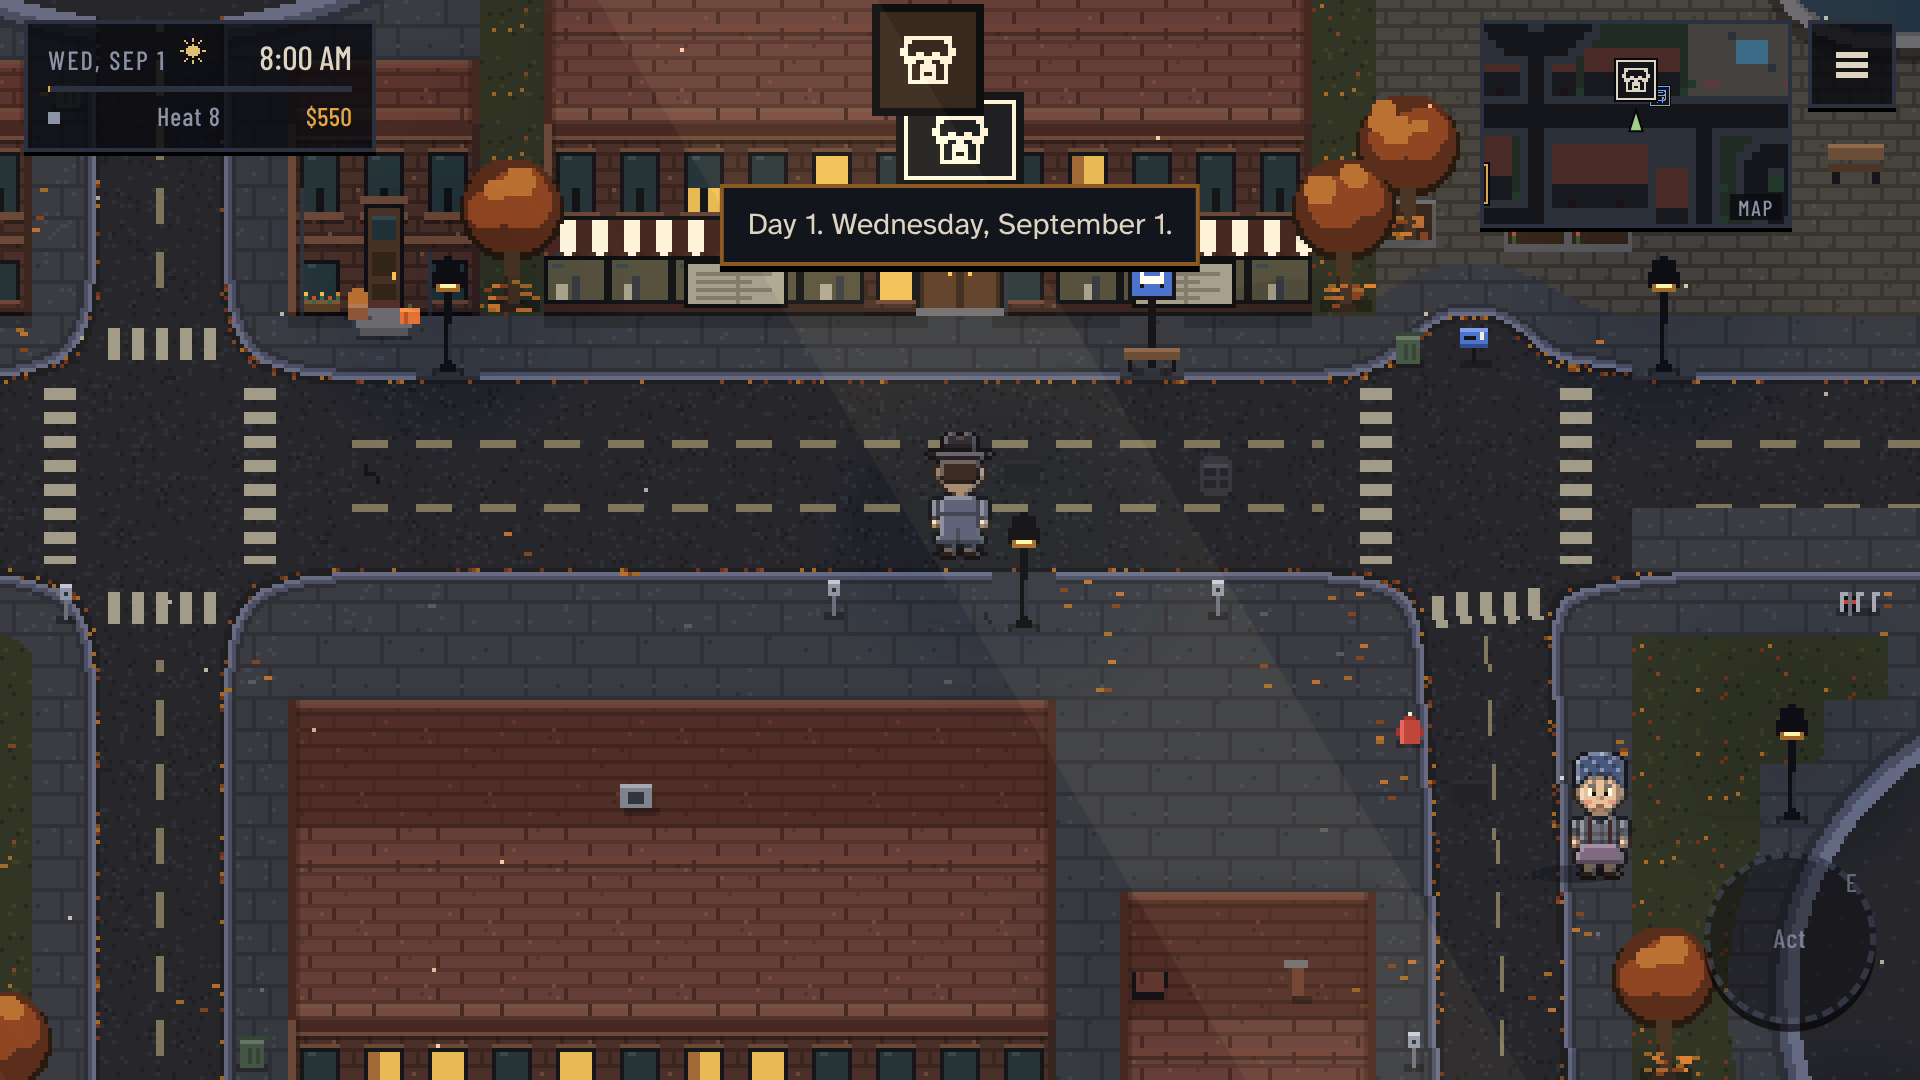
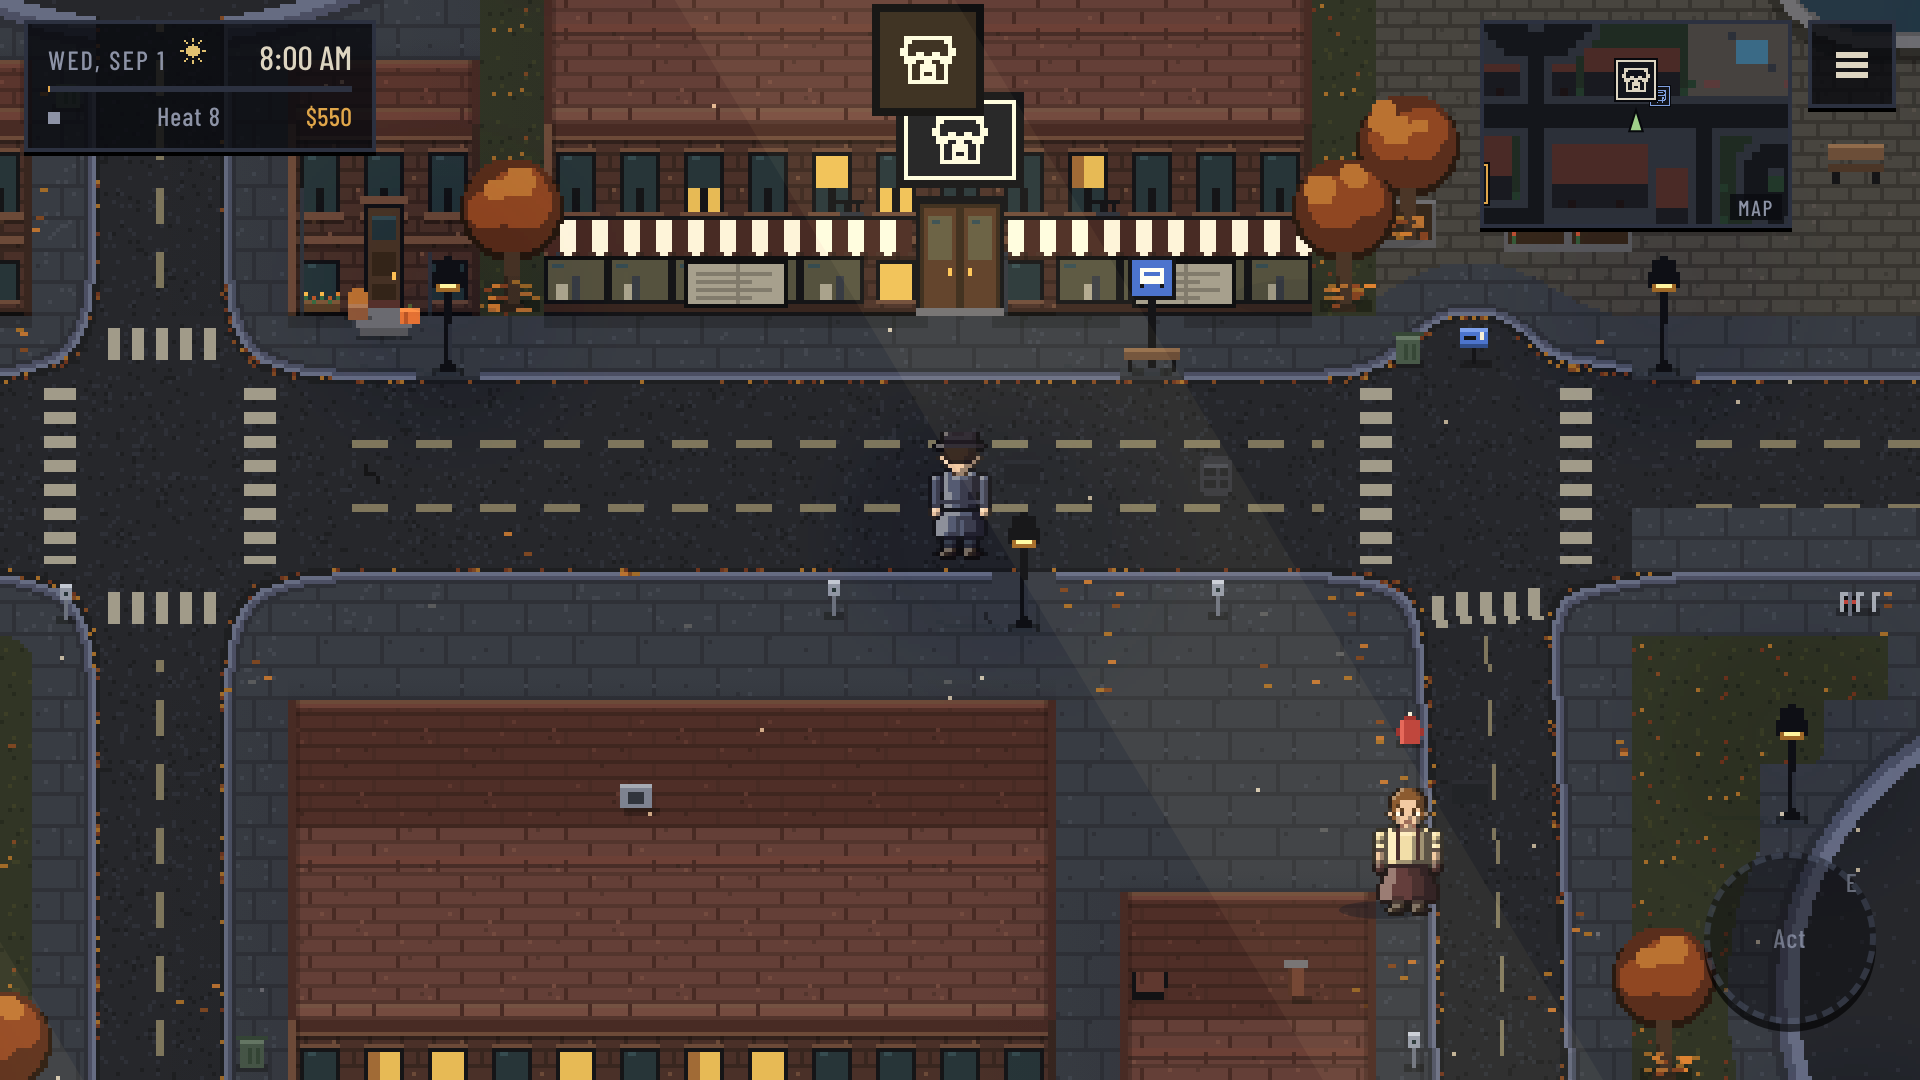
Phase 34d: the noir art for everyone (3.1.0), new store screenshots
The noir figures and portrait clothes are on for all players; the ?art=noir switch is
removed. Version 3.1.0 with a What's new entry. Store screenshots and the feature
graphic retaken with the new characters.

Claude-Session: https://claude.ai/code/session_015gp6HFWkuduhuaYTGNTQiG

diff --git a/src/data/changelog.js b/src/data/changelog.js
@@ -2,6 +2,11 @@
 // Written for players: what they'll notice, not how it was built.
 
 export const CHANGELOG = [
+  { version: '3.1.0', title: 'New faces in town', items: [
+    'Everyone has been redrawn in a new noir style: grown-up proportions, lamp-lit shading with cool shadows, and faces with real features at walking size. Every hairstyle, hat, outfit and accessory in the creator has a new look, and your character and everyone in town keep theirs.',
+    'Portraits keep their faces; their clothes now match the new outfits.',
+    'Since 3.0: smooth, curving roads with a roundabout, lamplit windows and moving shadows, walk in and out of your shop and apartment freely, open the shop from its sign (and late, after dark, twice a week), and night spots are entered from their own doors.',
+  ] },
   { version: '3.0.0', title: 'Day and night, flowing', items: [
     'The day is one long, continuous day now, about fifteen to twenty minutes from waking to bed, with the night after it. No more menus to pick the day and the night.',
     'Open the shop when you like, for up to eight hours, set from the sign at the front. Pick a closed day each week. While it is open you stay in the shop; the rest of the time the city, your friends and the water are yours.',

diff --git a/src/engine/figure-hd.js b/src/engine/figure-hd.js
@@ -19,10 +19,9 @@ import { makeCanvas } from './sprites.js';
 import { cleanLook, MOODS, shade, SKINS, HAIR_COLORS, CLOTH, EYE_COLORS, PARTS } from './figure.js';
 import { paintNoir, noirRamp } from './figure-noir.js';
 
-// Phase 34: the noir figures are built behind a switch until the owner approves them. Add ?art=noir to the
-// address to see them; everyone else keeps the current art. (Portraits are unchanged either way.)
-let ART = 'classic';
-try { if (/[?&]art=noir\b/.test(globalThis.location?.search ?? '')) ART = 'noir'; } catch { /* no location: tests */ }
+// Phase 34: the walking figures are drawn by figure-noir.js, and portrait clothes take its colours. The classic
+// painter below is kept for tests and comparison (setArtStyle('classic')); players always see the noir art.
+let ART = 'noir';
 export const artStyle = () => ART;
 export function setArtStyle(s) { ART = s === 'noir' ? 'noir' : 'classic'; }
 

diff --git a/src/config.js b/src/config.js
@@ -3,7 +3,7 @@
 export const CONFIG = {
   title: 'The Midnight Appraiser',
   saveVersion: 1,
-  version: '3.0.0',
+  version: '3.1.0',
   saveSlots: 3,
 
   tile: 16,

diff --git a/ROADMAP.md b/ROADMAP.md
@@ -504,7 +504,7 @@ realm (it can be built at any time, independent of the rest). Each slice can be 
 - Whether the Town Hall NPCs' schedules follow the long day and whether the council meets on a fixed weekday; how hard the
   Hearing should be to fail; the final names and looks of the Brethren and the Horned Judge.
 
-### Phase 34: Noir character art (style approved from a mockup; not built yet)
+### Phase 34: Noir character art (built, version 3.1.0)
 
 The owner wants the characters redrawn in the look of the craftpix "gangster" pixel pack (no guns), bought as a
 free asset. The pack is a side-view platformer set of three fixed characters, so it is a style reference only: none of
@@ -541,6 +541,9 @@ Build order (each a slice, checked with screenshots):
    seam where shirt meets coat, the trench coat's storm flap, the leather jacket's slanted zip, the raincoat's toggles,
    the kimono's sash in the accessory colour and the jacket's buttons. Faces, hair, moods and the 96 x 96 size are unchanged.
 4. 34d: retake the store screenshots and feature graphic, then rebuild the Android bundle.
+   **Built** (version 3.1.0): the noir art is on for everyone and the `?art=noir` switch is gone (the classic painter
+   stays in the code for tests and comparison). New store screenshots and feature graphic in `mobile/store/`. The owner
+   rebuilds the Android bundle from the Actions tab.
 
 Open question: how far the townsfolk's existing colour choices should be shifted toward the noir palette.
 
